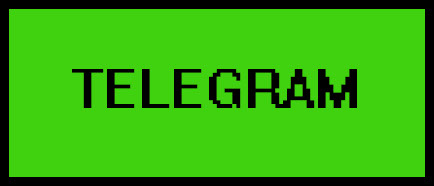
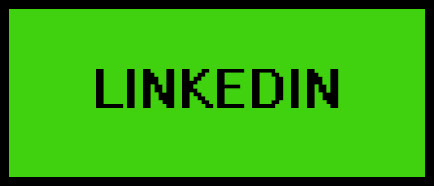
fix

Changed region(s): [[0.1498, 0.3495, 0.8387, 0.5914]]

diff --git a/phone/css/index.css b/phone/css/index.css
@@ -1,1 +1,1 @@
-.version.index{color:#000011;background-color:#D9D0AA;}.js body{visibility:hidden;}.js body.initialized{visibility:visible;}#page{background-image:none;border-color:#000000;margin-right:auto;background-color:transparent;border-width:0px;width:100%;z-index:1;margin-left:auto;}#pup{z-index:71;}#u4928{position:relative;z-index:77;background-color:transparent;}#u4859{height:3px;z-index:2;background-color:#1E0800;}#u4859-bw{left:0px;z-index:2;margin-left:0px;height:3px;}#pu4924{left:0%;z-index:73;}#u4924{margin-right:-10000px;background-color:transparent;z-index:73;position:relative;}#u4861{margin-right:-10000px;background-color:transparent;z-index:7;position:relative;}#pu4926{left:0%;z-index:75;}#u4926{margin-right:-10000px;background-color:transparent;z-index:75;position:relative;}#u4864{margin-right:-10000px;position:relative;z-index:13;background-color:transparent;}#u4863-4{display:block;vertical-align:top;position:relative;z-index:9;}#u4860-4{min-height:21px;position:relative;z-index:3;background-color:transparent;}#pu4923{left:0px;width:0.01px;z-index:72;}#u4923{border-color:transparent;margin-right:-10000px;min-height:100px;background-color:transparent;border-width:0px;width:200px;z-index:72;position:relative;}#u4932{z-index:84;margin-right:-10000px;position:relative;}.up{border-width:0px;border-color:#000000;background-color:transparent;}#u4866{height:10px;z-index:15;background-color:#000000;}#u4866-bw{left:0px;z-index:15;margin-left:0px;height:10px;}#u4869{position:relative;z-index:18;background-color:transparent;}#pu4871{left:0%;z-index:20;}#u4871{background-color:transparent;z-index:20;margin-right:-10000px;position:relative;}#u4873{margin-right:-10000px;background-color:transparent;z-index:22;position:relative;}#u4868{height:10px;z-index:17;background-color:#000000;}#u4868-bw{left:0px;z-index:17;margin-left:0px;height:10px;}#u4877{left:0%;position:relative;z-index:26;background-color:transparent;}#pu4879{z-index:28;margin-right:-10000px;}#u4879{background-color:transparent;width:100%;z-index:28;margin-right:-10000px;position:relative;}#u4881{margin-right:-10000px;background-color:transparent;z-index:30;position:relative;}#u4885{background-color:transparent;z-index:34;margin-right:-10000px;position:relative;}#u4893{margin-right:-10000px;background-color:transparent;z-index:42;position:relative;}#pu4887{z-index:36;margin-right:-10000px;}#u4887{background-color:transparent;width:100%;z-index:36;margin-right:-10000px;position:relative;}#u4897{margin-right:-10000px;background-color:transparent;z-index:46;position:relative;}#u4889{background-color:transparent;z-index:38;margin-right:-10000px;position:relative;}#u4895{margin-right:-10000px;background-color:transparent;z-index:44;position:relative;}#ppu4879,#ppu4887,#ppu4891{left:0%;z-index:0;}#pu4891{z-index:40;margin-right:-10000px;}#u4891{background-color:transparent;width:100%;z-index:40;margin-right:-10000px;position:relative;}#u4899{margin-right:-10000px;background-color:transparent;z-index:48;position:relative;}#u4883{margin-right:-10000px;background-color:transparent;z-index:32;position:relative;}#u4901{margin-right:-10000px;background-color:transparent;z-index:50;position:relative;}#u4875{height:10px;z-index:24;background-color:#000000;}#u4875-bw{left:0px;z-index:24;margin-left:0px;height:10px;}#u4908{left:0%;position:relative;z-index:57;background-color:transparent;}#pu4904{left:0%;z-index:53;}#u4904{background-color:transparent;width:100%;z-index:53;margin-right:-10000px;position:relative;}#u4906{margin-right:-10000px;background-color:transparent;z-index:55;position:relative;}#u4903{height:9px;z-index:52;background-color:#000000;}#u4903-bw{left:0px;z-index:52;margin-left:0px;height:9px;}#projects,#education,#contacts{left:0%;margin-left:0%;position:relative;}#u4910{left:0%;position:relative;z-index:59;background-color:transparent;}#u4914{background-color:transparent;z-index:63;position:relative;}#u4916{background-color:transparent;z-index:65;position:relative;}#u4912{background-color:transparent;z-index:61;position:relative;}#u4918{background-color:transparent;z-index:67;position:relative;}#u4928_img,#u4924_img,#u4861_img,#u4926_img,#u4869_img,#u4871_img,#u4873_img,#u4877_img,#u4879_img,#u4881_img,#u4885_img,#u4893_img,#u4887_img,#u4897_img,#u4889_img,#u4895_img,#u4891_img,#u4899_img,#u4883_img,#u4901_img,#u4908_img,#u4904_img,#u4906_img,#u4910_img,#u4914_img,#u4916_img,#u4912_img,#u4918_img{width:100%;}#u4930{padding-bottom:30px;z-index:79;min-height:54px;background-color:#000000;}#u4930_align_to_page{margin-right:auto;margin-left:auto;position:relative;}#u4931-4{color:#FFFFFF;position:relative;margin-right:-10000px;min-height:28px;font-size:19px;background-color:transparent;margin-top:26px;z-index:80;line-height:23px;}#u4930-bw{margin-top:2342px;margin-bottom:-2355px;z-index:79;min-height:54px;}.html{background-color:#FFFFFF;}#up,#skills,body{position:relative;}@media (min-width: 429px), print{#muse_css_mq{background-color:#FFFFFF;}#bp_infinity.active{display:block;}#page{min-height:5776px;max-width:500px;}#pup{margin-right:-10000px;width:100%;}#up{left:0%;margin-left:0%;}#u4928{margin-top:1px;width:31.8%;left:0%;margin-left:23.6%;}#u4859-bw{margin-top:2px;}#pu4924{margin-top:12px;width:93.61%;margin-left:1.41%;}#u4924{margin-top:6px;width:21.59%;}#u4861{width:21.59%;left:78.42%;}#pu4926{margin-top:7px;width:93.8%;margin-left:1.21%;}#u4926{margin-top:8px;width:21.75%;}#u4864{width:104px;left:77.62%;}#u4863-4{margin-top:12px;margin-left:50%;left:-214px;}#u4860-4{width:218px;margin-top:35px;margin-left:50%;left:-229px;}#pu4923{margin-top:193px;margin-left:20px;}#u4932{width:62px;margin-top:22px;}#u4866-bw{margin-top:58px;}#skills{margin-top:10px;left:0%;margin-left:0.6%;}#u4869{margin-top:47px;width:19%;left:0%;margin-left:26.21%;}#pu4871{margin-top:18px;width:66.2%;margin-left:0.6%;}#u4871{width:60.13%;}#u4873{margin-top:167px;width:64.96%;left:34.75%;}#u4868-bw{margin-top:946px;}#u4877{margin-top:24px;width:19.2%;margin-left:26%;}#ppu4879{margin-top:42px;width:69%;margin-left:1%;}#pu4879{width:46.38%;margin-left:53.63%;}#u4881{margin-top:104px;width:38.75%;left:35%;}#u4893{margin-top:104px;width:17.98%;left:13.05%;}#ppu4887{margin-top:119px;width:69%;margin-left:1%;}#pu4887{width:46.67%;margin-left:53.63%;}#u4897{margin-top:100px;width:38.51%;left:30.44%;}#u4885,#u4889{width:46.38%;}#u4895{margin-top:100px;width:17.98%;left:13.34%;}#ppu4891{margin-top:132px;width:69.4%;margin-left:1%;}#pu4891{width:46.69%;margin-left:53.32%;}#u4899{margin-top:108px;width:38.28%;left:34.57%;}#u4883{margin-top:4px;width:46.11%;}#u4901{margin-top:108px;width:17.87%;left:13.26%;}#u4875-bw{margin-top:420px;}#u4908{margin-top:84px;width:19.2%;margin-left:26%;}#pu4904{margin-top:139px;width:67.81%;margin-left:2.21%;}#u4906{margin-top:47px;width:12.39%;left:81.42%;}#u4903-bw{margin-top:798px;}#u4910{margin-top:41px;width:19.2%;margin-left:26%;}#pu4914{z-index:63;margin-top:38px;width:58.2%;left:0%;margin-left:6.61%;}#u4916{margin-right:-10000px;margin-top:1px;width:33.68%;left:66.67%;}#pu4912{z-index:61;margin-top:112px;width:58.2%;left:0%;margin-left:6.61%;}#u4914,#u4912{margin-right:-10000px;width:33.68%;}#u4918{margin-right:-10000px;width:33.68%;left:66.67%;}.css_verticalspacer .verticalspacer{height:calc(100vh - 4929px);}#u4930_align_to_page{max-width:500px;}#u4931-4{width:10.2%;left:27.21%;}.verticalspacer{min-height:846px;}}@media (max-width: 428px){#muse_css_mq{background-color:#0001ac;}#bp_428.active{display:block;}#page{min-height:5526px;max-width:428px;}#ppup{z-index:0;padding-bottom:0px;margin-right:-10000px;width:100%;}#pup{width:65.66%;left:0%;margin-left:0%;}#u4928{margin-right:-10000px;margin-top:9px;width:48.4%;left:51.61%;}#u4859-bw{margin-top:13px;}#pu4924{margin-top:22px;width:94.63%;margin-left:1.87%;}#u4924{width:36.55%;}#u4861{width:36.55%;left:63.46%;}#pu4926{margin-top:18px;width:94.63%;margin-left:1.87%;}#u4926{width:37.29%;}#u4864{margin-top:1px;width:36.55%;left:63.46%;}#u4864_img{width:100%;}#u4863-4{margin-top:23px;width:75.94%;left:0%;margin-left:15.19%;}#u4860-4{margin-top:7px;width:54.68%;left:0%;margin-left:24.54%;}#pu4923{margin-top:238px;margin-left:8px;}#u4932{width:35px;left:12px;}#u4866-bw{margin-top:9px;}#pskills{z-index:16;margin-top:9px;width:65.66%;left:0%;margin-left:0%;}#up,#skills{margin-right:-10000px;width:22px;}#u4869{margin-right:-10000px;margin-top:9px;width:48.4%;left:51.96%;}#pu4871{margin-top:55px;width:97.43%;margin-left:0.71%;}#u4871{width:66.91%;}#u4873{margin-top:96px;width:62.12%;left:37.65%;}#u4868-bw{margin-top:930px;}#u4877{margin-top:19px;width:24.77%;margin-left:37.62%;}#ppu4879{margin-top:37px;width:96.97%;margin-left:1.17%;}#u4881{margin-top:117px;width:37.7%;left:28.8%;}#u4885{margin-top:1px;width:45.79%;}#u4893{margin-top:117px;width:17.6%;left:13.5%;}#u4897{margin-top:119px;width:38.75%;left:31.94%;}#u4889{width:46.03%;}#u4895{margin-top:119px;width:19.76%;left:13.5%;}#ppu4887,#ppu4891{margin-top:7px;width:96.97%;margin-left:1.17%;}#pu4879,#pu4887,#pu4891{width:46.03%;margin-left:53.98%;}#u4899{margin-top:116px;width:41.89%;left:28.8%;}#u4883{width:45.55%;}#u4901{margin-top:116px;width:19.04%;left:13.26%;}#u4875-bw{margin-top:545px;}#u4908{margin-top:19px;width:34.58%;margin-left:32.72%;}#pu4904{margin-top:110px;width:95.57%;margin-left:2.34%;}#u4906{margin-top:56px;width:8.81%;left:85.82%;}#u4903-bw{margin-top:854px;}#u4910{margin-top:25px;width:29.91%;margin-left:35.05%;}#u4914{margin-top:18px;width:50%;left:0%;margin-left:25%;}#u4916,#u4912{margin-top:2px;width:50%;left:0%;margin-left:25%;}#u4918{margin-top:1px;width:50%;left:0%;margin-left:25%;}.css_verticalspacer .verticalspacer{height:calc(100vh - 4968px);}#u4930_align_to_page{max-width:428px;}#u4931-4{width:10.29%;left:27.34%;}body{overflow-x:hidden;min-width:321px;}.verticalspacer{min-height:558px;}}
+.version.index{color:#000012;background-color:#835AD7;}.js body{visibility:hidden;}.js body.initialized{visibility:visible;}#page{border-color:#000000;margin-left:auto;margin-right:auto;border-width:0px;width:100%;z-index:1;background:transparent url("../../images/ee5eeef76f90f10325a12d1597e49aba.jpg?crc=3900983565") no-repeat left top;background-size:cover;}#pup{z-index:71;}#u4928{position:relative;z-index:77;background-color:transparent;}#u4859{height:3px;z-index:2;background-color:#1E0800;}#u4859-bw{left:0px;z-index:2;margin-left:0px;height:3px;}#pu4924{left:0%;z-index:73;}#u4924{margin-right:-10000px;background-color:transparent;z-index:73;position:relative;}#u4861{margin-right:-10000px;background-color:transparent;z-index:7;position:relative;}#pu4926{left:0%;z-index:75;}#u4926{margin-right:-10000px;background-color:transparent;z-index:75;position:relative;}#u4864{margin-right:-10000px;position:relative;z-index:13;background-color:transparent;}#u4863-4{display:block;vertical-align:top;position:relative;z-index:9;}#u4860-4{min-height:21px;position:relative;z-index:3;background-color:transparent;}#pu4923{left:0px;width:0.01px;z-index:72;}#u4923{border-color:transparent;margin-right:-10000px;min-height:100px;background-color:transparent;border-width:0px;width:200px;z-index:72;position:relative;}#u4932{z-index:84;margin-right:-10000px;position:relative;}.up{border-width:0px;border-color:#000000;background-color:transparent;}#u4866{height:10px;z-index:15;background-color:#000000;}#u4866-bw{left:0px;z-index:15;margin-left:0px;height:10px;}#u4869{position:relative;z-index:18;background-color:transparent;}#pu4871{left:0%;z-index:20;}#u4871{background-color:transparent;z-index:20;margin-right:-10000px;position:relative;}#u4873{margin-right:-10000px;background-color:transparent;z-index:22;position:relative;}#u4868{height:10px;z-index:17;background-color:#000000;}#u4868-bw{left:0px;z-index:17;margin-left:0px;height:10px;}#u4877{left:0%;position:relative;z-index:26;background-color:transparent;}#pu4879{z-index:28;margin-right:-10000px;}#u4879{background-color:transparent;width:100%;z-index:28;margin-right:-10000px;position:relative;}#u4881{margin-right:-10000px;background-color:transparent;z-index:30;position:relative;}#u4885{background-color:transparent;z-index:34;margin-right:-10000px;position:relative;}#u4893{margin-right:-10000px;background-color:transparent;z-index:42;position:relative;}#pu4887{z-index:36;margin-right:-10000px;}#u4887{background-color:transparent;width:100%;z-index:36;margin-right:-10000px;position:relative;}#u4897{margin-right:-10000px;background-color:transparent;z-index:46;position:relative;}#u4889{background-color:transparent;z-index:38;margin-right:-10000px;position:relative;}#u4895{margin-right:-10000px;background-color:transparent;z-index:44;position:relative;}#ppu4879,#ppu4887,#ppu4891{left:0%;z-index:0;}#pu4891{z-index:40;margin-right:-10000px;}#u4891{background-color:transparent;width:100%;z-index:40;margin-right:-10000px;position:relative;}#u4899{margin-right:-10000px;background-color:transparent;z-index:48;position:relative;}#u4883{margin-right:-10000px;background-color:transparent;z-index:32;position:relative;}#u4901{margin-right:-10000px;background-color:transparent;z-index:50;position:relative;}#u4875{height:10px;z-index:24;background-color:#000000;}#u4875-bw{left:0px;z-index:24;margin-left:0px;height:10px;}#u4908{left:0%;position:relative;z-index:57;background-color:transparent;}#pu4904{left:0%;z-index:53;}#u4904{background-color:transparent;width:100%;z-index:53;margin-right:-10000px;position:relative;}#u4906{margin-right:-10000px;background-color:transparent;z-index:55;position:relative;}#u4903{height:9px;z-index:52;background-color:#000000;}#u4903-bw{left:0px;z-index:52;margin-left:0px;height:9px;}#projects,#education,#contacts{left:0%;margin-left:0%;position:relative;}#u4910{left:0%;position:relative;z-index:59;background-color:transparent;}#u4914{background-color:transparent;z-index:63;position:relative;}#u4916{background-color:transparent;z-index:65;position:relative;}#u4912{background-color:transparent;z-index:61;position:relative;}#u4918{background-color:transparent;z-index:67;position:relative;}#u4928_img,#u4924_img,#u4861_img,#u4926_img,#u4869_img,#u4871_img,#u4873_img,#u4877_img,#u4879_img,#u4881_img,#u4885_img,#u4893_img,#u4887_img,#u4897_img,#u4889_img,#u4895_img,#u4891_img,#u4899_img,#u4883_img,#u4901_img,#u4908_img,#u4904_img,#u4906_img,#u4910_img,#u4914_img,#u4916_img,#u4912_img,#u4918_img{width:100%;}#u4930{padding-bottom:30px;z-index:79;min-height:54px;background-color:#000000;}#u4930_align_to_page{margin-right:auto;margin-left:auto;position:relative;}#u4931-4{color:#FFFFFF;position:relative;margin-right:-10000px;min-height:28px;font-size:19px;background-color:transparent;margin-top:26px;z-index:80;line-height:23px;}#u4930-bw{margin-top:2342px;margin-bottom:-2355px;z-index:79;min-height:54px;}.html{background-color:#FFFFFF;}#up,#skills,body{position:relative;}@media (min-width: 429px), print{#muse_css_mq{background-color:#FFFFFF;}#bp_infinity.active{display:block;}#page{min-height:5776px;max-width:500px;}#pup{margin-right:-10000px;width:100%;}#up{left:0%;margin-left:0%;}#u4928{margin-top:1px;width:31.8%;left:0%;margin-left:23.6%;}#u4859-bw{margin-top:2px;}#pu4924{margin-top:12px;width:93.61%;margin-left:1.41%;}#u4924{margin-top:6px;width:21.59%;}#u4861{width:21.59%;left:78.42%;}#pu4926{margin-top:7px;width:93.8%;margin-left:1.21%;}#u4926{margin-top:8px;width:21.75%;}#u4864{width:104px;left:77.62%;}#u4863-4{margin-top:12px;margin-left:50%;left:-214px;}#u4860-4{width:218px;margin-top:35px;margin-left:50%;left:-229px;}#pu4923{margin-top:193px;margin-left:20px;}#u4932{width:62px;margin-top:22px;}#u4866-bw{margin-top:58px;}#skills{margin-top:10px;left:0%;margin-left:0.6%;}#u4869{margin-top:47px;width:19%;left:0%;margin-left:26.21%;}#pu4871{margin-top:18px;width:66.2%;margin-left:0.6%;}#u4871{width:60.13%;}#u4873{margin-top:167px;width:64.96%;left:34.75%;}#u4868-bw{margin-top:946px;}#u4877{margin-top:24px;width:19.2%;margin-left:26%;}#ppu4879{margin-top:42px;width:69%;margin-left:1%;}#pu4879{width:46.38%;margin-left:53.63%;}#u4881{margin-top:104px;width:38.75%;left:35%;}#u4893{margin-top:104px;width:17.98%;left:13.05%;}#ppu4887{margin-top:119px;width:69%;margin-left:1%;}#pu4887{width:46.67%;margin-left:53.63%;}#u4897{margin-top:100px;width:38.51%;left:30.44%;}#u4885,#u4889{width:46.38%;}#u4895{margin-top:100px;width:17.98%;left:13.34%;}#ppu4891{margin-top:132px;width:69.4%;margin-left:1%;}#pu4891{width:46.69%;margin-left:53.32%;}#u4899{margin-top:108px;width:38.28%;left:34.57%;}#u4883{margin-top:4px;width:46.11%;}#u4901{margin-top:108px;width:17.87%;left:13.26%;}#u4875-bw{margin-top:420px;}#u4908{margin-top:84px;width:19.2%;margin-left:26%;}#pu4904{margin-top:139px;width:67.81%;margin-left:2.21%;}#u4906{margin-top:47px;width:12.39%;left:81.42%;}#u4903-bw{margin-top:798px;}#u4910{margin-top:41px;width:19.2%;margin-left:26%;}#pu4914{z-index:63;margin-top:38px;width:58.2%;left:0%;margin-left:6.61%;}#u4916{margin-right:-10000px;margin-top:1px;width:33.68%;left:66.67%;}#pu4912{z-index:61;margin-top:112px;width:58.2%;left:0%;margin-left:6.61%;}#u4914,#u4912{margin-right:-10000px;width:33.68%;}#u4918{margin-right:-10000px;width:33.68%;left:66.67%;}.css_verticalspacer .verticalspacer{height:calc(100vh - 4929px);}#u4930_align_to_page{max-width:500px;}#u4931-4{width:10.2%;left:27.21%;}.verticalspacer{min-height:846px;}}@media (max-width: 428px){#muse_css_mq{background-color:#0001ac;}#bp_428.active{display:block;}#page{min-height:5526px;max-width:428px;}#ppup{z-index:0;padding-bottom:0px;margin-right:-10000px;width:100%;}#pup{width:65.66%;left:0%;margin-left:0%;}#u4928{margin-right:-10000px;margin-top:9px;width:48.4%;left:51.61%;}#u4859-bw{margin-top:13px;}#pu4924{margin-top:22px;width:94.63%;margin-left:1.87%;}#u4924{width:36.55%;}#u4861{width:36.55%;left:63.46%;}#pu4926{margin-top:18px;width:94.63%;margin-left:1.87%;}#u4926{width:37.29%;}#u4864{margin-top:1px;width:36.55%;left:63.46%;}#u4864_img{width:100%;}#u4863-4{margin-top:23px;width:75.94%;left:0%;margin-left:15.19%;}#u4860-4{margin-top:7px;width:54.68%;left:0%;margin-left:24.54%;}#pu4923{margin-top:238px;margin-left:8px;}#u4932{width:35px;left:12px;}#u4866-bw{margin-top:9px;}#pskills{z-index:16;margin-top:9px;width:65.66%;left:0%;margin-left:0%;}#up,#skills{margin-right:-10000px;width:22px;}#u4869{margin-right:-10000px;margin-top:9px;width:48.4%;left:51.96%;}#pu4871{margin-top:55px;width:97.43%;margin-left:0.71%;}#u4871{width:66.91%;}#u4873{margin-top:96px;width:62.12%;left:37.65%;}#u4868-bw{margin-top:930px;}#u4877{margin-top:19px;width:24.77%;margin-left:37.62%;}#ppu4879{margin-top:37px;width:96.97%;margin-left:1.17%;}#u4881{margin-top:117px;width:37.7%;left:28.8%;}#u4885{margin-top:1px;width:45.79%;}#u4893{margin-top:117px;width:17.6%;left:13.5%;}#u4897{margin-top:119px;width:38.75%;left:31.94%;}#u4889{width:46.03%;}#u4895{margin-top:119px;width:19.76%;left:13.5%;}#ppu4887,#ppu4891{margin-top:7px;width:96.97%;margin-left:1.17%;}#pu4879,#pu4887,#pu4891{width:46.03%;margin-left:53.98%;}#u4899{margin-top:116px;width:41.89%;left:28.8%;}#u4883{width:45.55%;}#u4901{margin-top:116px;width:19.04%;left:13.26%;}#u4875-bw{margin-top:545px;}#u4908{margin-top:19px;width:34.58%;margin-left:32.72%;}#pu4904{margin-top:110px;width:95.57%;margin-left:2.34%;}#u4906{margin-top:56px;width:8.81%;left:85.82%;}#u4903-bw{margin-top:854px;}#u4910{margin-top:25px;width:29.91%;margin-left:35.05%;}#u4914{margin-top:18px;width:50%;left:0%;margin-left:25%;}#u4916,#u4912{margin-top:2px;width:50%;left:0%;margin-left:25%;}#u4918{margin-top:1px;width:50%;left:0%;margin-left:25%;}.css_verticalspacer .verticalspacer{height:calc(100vh - 4968px);}#u4930_align_to_page{max-width:428px;}#u4931-4{width:10.29%;left:27.34%;}body{overflow-x:hidden;min-width:321px;}.verticalspacer{min-height:558px;}}

diff --git a/index.html b/index.html
@@ -50,17 +50,17 @@ if(typeof Muse == "undefined") window.Muse = {}; window.Muse.assets = {"required
     <div class="clearfix colelem" id="pu471"><!-- group -->
      <div class="grpelem" id="u471" data-sizePolicy="fixed" data-pintopage="page_fluidx"><!-- simple frame --></div>
      <!-- m_editable region-id="editable-static-tag-U371-BP_infinity" template="index.html" data-type="image" data-ice-options="clickable" data-ice-editable="link" -->
-     <a class="nonblock nontext anim_swing clip_frame grpelem" id="u371" href="index.html#skills" data-href="anchor:U82:U483" data-muse-uid="U371" data-muse-type="img_frame"><!-- image --><img class="block" id="u371_img" src="images/%d0%b2%d1%81%d1%82%d0%b0%d0%b2%d0%bb%d0%b5%d0%bd%d0%bd%d0%be%d0%b5%20%d0%b8%d0%b7%d0%be%d0%b1%d1%80%d0%b0%d0%b6%d0%b5%d0%bd%d0%b8%d0%b5%20670x227.jpg?crc=480356320" alt="" data-muse-src="images/%d0%b2%d1%81%d1%82%d0%b0%d0%b2%d0%bb%d0%b5%d0%bd%d0%bd%d0%be%d0%b5%20%d0%b8%d0%b7%d0%be%d0%b1%d1%80%d0%b0%d0%b6%d0%b5%d0%bd%d0%b8%d0%b5%20670x227.jpg?crc=480356320" data-heightwidthratio="0.3382352941176471" data-image-width="136" data-image-height="46"/></a>
+     <a class="nonblock nontext anim_swing clip_frame grpelem" id="u371" href="index.html#skills" data-href="anchor:U82:U483" data-muse-uid="U371" data-muse-type="img_frame"><!-- image --><img class="block" id="u371_img" src="images/%d0%b2%d1%81%d1%82%d0%b0%d0%b2%d0%bb%d0%b5%d0%bd%d0%bd%d0%be%d0%b5%20%d0%b8%d0%b7%d0%be%d0%b1%d1%80%d0%b0%d0%b6%d0%b5%d0%bd%d0%b8%d0%b5%20670x2272.jpg?crc=480356320" alt="" data-muse-src="images/%d0%b2%d1%81%d1%82%d0%b0%d0%b2%d0%bb%d0%b5%d0%bd%d0%bd%d0%be%d0%b5%20%d0%b8%d0%b7%d0%be%d0%b1%d1%80%d0%b0%d0%b6%d0%b5%d0%bd%d0%b8%d0%b5%20670x2272.jpg?crc=480356320" data-heightwidthratio="0.3382352941176471" data-image-width="136" data-image-height="46"/></a>
      <!-- /m_editable -->
      <!-- m_editable region-id="editable-static-tag-U434-BP_infinity" template="index.html" data-type="image" data-ice-options="clickable" data-ice-editable="link" -->
-     <a class="nonblock nontext anim_swing clip_frame grpelem" id="u434" href="index.html#contacts" data-href="anchor:U82:U850" data-muse-uid="U434" data-muse-type="img_frame"><!-- image --><img class="block" id="u434_img" src="images/%d0%b2%d1%81%d1%82%d0%b0%d0%b2%d0%bb%d0%b5%d0%bd%d0%bd%d0%be%d0%b5%20%d0%b8%d0%b7%d0%be%d0%b1%d1%80%d0%b0%d0%b6%d0%b5%d0%bd%d0%b8%d0%b5%20670x2272.jpg?crc=3857605817" alt="" data-muse-src="images/%d0%b2%d1%81%d1%82%d0%b0%d0%b2%d0%bb%d0%b5%d0%bd%d0%bd%d0%be%d0%b5%20%d0%b8%d0%b7%d0%be%d0%b1%d1%80%d0%b0%d0%b6%d0%b5%d0%bd%d0%b8%d0%b5%20670x2272.jpg?crc=3857605817" data-heightwidthratio="0.34074074074074073" data-image-width="135" data-image-height="46"/></a>
+     <a class="nonblock nontext anim_swing clip_frame grpelem" id="u434" href="index.html#contacts" data-href="anchor:U82:U850" data-muse-uid="U434" data-muse-type="img_frame"><!-- image --><img class="block" id="u434_img" src="images/%d0%b2%d1%81%d1%82%d0%b0%d0%b2%d0%bb%d0%b5%d0%bd%d0%bd%d0%be%d0%b5%20%d0%b8%d0%b7%d0%be%d0%b1%d1%80%d0%b0%d0%b6%d0%b5%d0%bd%d0%b8%d0%b5%20670x2274.jpg?crc=3857605817" alt="" data-muse-src="images/%d0%b2%d1%81%d1%82%d0%b0%d0%b2%d0%bb%d0%b5%d0%bd%d0%bd%d0%be%d0%b5%20%d0%b8%d0%b7%d0%be%d0%b1%d1%80%d0%b0%d0%b6%d0%b5%d0%bd%d0%b8%d0%b5%20670x2274.jpg?crc=3857605817" data-heightwidthratio="0.34074074074074073" data-image-width="135" data-image-height="46"/></a>
      <!-- /m_editable -->
      <a class="anchor_item grpelem" id="up" data-sizePolicy="fixed" data-pintopage="page_fluidx"></a>
      <!-- m_editable region-id="editable-static-tag-U385-BP_infinity" template="index.html" data-type="image" data-ice-options="clickable" data-ice-editable="link" -->
-     <a class="nonblock nontext anim_swing clip_frame grpelem" id="u385" href="index.html#projects" data-href="anchor:U82:U555" data-muse-uid="U385" data-muse-type="img_frame"><!-- image --><img class="block" id="u385_img" src="images/%d0%b2%d1%81%d1%82%d0%b0%d0%b2%d0%bb%d0%b5%d0%bd%d0%bd%d0%be%d0%b5%20%d0%b8%d0%b7%d0%be%d0%b1%d1%80%d0%b0%d0%b6%d0%b5%d0%bd%d0%b8%d0%b5%20670x2273.jpg?crc=4192162273" alt="" data-muse-src="images/%d0%b2%d1%81%d1%82%d0%b0%d0%b2%d0%bb%d0%b5%d0%bd%d0%bd%d0%be%d0%b5%20%d0%b8%d0%b7%d0%be%d0%b1%d1%80%d0%b0%d0%b6%d0%b5%d0%bd%d0%b8%d0%b5%20670x2273.jpg?crc=4192162273" data-heightwidthratio="0.3382352941176471" data-image-width="136" data-image-height="46"/></a>
+     <a class="nonblock nontext anim_swing clip_frame grpelem" id="u385" href="index.html#projects" data-href="anchor:U82:U555" data-muse-uid="U385" data-muse-type="img_frame"><!-- image --><img class="block" id="u385_img" src="images/%d0%b2%d1%81%d1%82%d0%b0%d0%b2%d0%bb%d0%b5%d0%bd%d0%bd%d0%be%d0%b5%20%d0%b8%d0%b7%d0%be%d0%b1%d1%80%d0%b0%d0%b6%d0%b5%d0%bd%d0%b8%d0%b5%20670x227.jpg?crc=4192162273" alt="" data-muse-src="images/%d0%b2%d1%81%d1%82%d0%b0%d0%b2%d0%bb%d0%b5%d0%bd%d0%bd%d0%be%d0%b5%20%d0%b8%d0%b7%d0%be%d0%b1%d1%80%d0%b0%d0%b6%d0%b5%d0%bd%d0%b8%d0%b5%20670x227.jpg?crc=4192162273" data-heightwidthratio="0.3382352941176471" data-image-width="136" data-image-height="46"/></a>
      <!-- /m_editable -->
      <!-- m_editable region-id="editable-static-tag-U420-BP_infinity" template="index.html" data-type="image" data-ice-options="clickable" data-ice-editable="link" -->
-     <a class="nonblock nontext anim_swing clip_frame grpelem" id="u420" href="index.html#education" data-href="anchor:U82:U853" data-muse-uid="U420" data-muse-type="img_frame"><!-- image --><img class="block" id="u420_img" src="images/%d0%b2%d1%81%d1%82%d0%b0%d0%b2%d0%bb%d0%b5%d0%bd%d0%bd%d0%be%d0%b5%20%d0%b8%d0%b7%d0%be%d0%b1%d1%80%d0%b0%d0%b6%d0%b5%d0%bd%d0%b8%d0%b5%20670x2274.jpg?crc=4148027940" alt="" data-muse-src="images/%d0%b2%d1%81%d1%82%d0%b0%d0%b2%d0%bb%d0%b5%d0%bd%d0%bd%d0%be%d0%b5%20%d0%b8%d0%b7%d0%be%d0%b1%d1%80%d0%b0%d0%b6%d0%b5%d0%bd%d0%b8%d0%b5%20670x2274.jpg?crc=4148027940" data-heightwidthratio="0.34057971014492755" data-image-width="138" data-image-height="47"/></a>
+     <a class="nonblock nontext anim_swing clip_frame grpelem" id="u420" href="index.html#education" data-href="anchor:U82:U853" data-muse-uid="U420" data-muse-type="img_frame"><!-- image --><img class="block" id="u420_img" src="images/%d0%b2%d1%81%d1%82%d0%b0%d0%b2%d0%bb%d0%b5%d0%bd%d0%bd%d0%be%d0%b5%20%d0%b8%d0%b7%d0%be%d0%b1%d1%80%d0%b0%d0%b6%d0%b5%d0%bd%d0%b8%d0%b5%20670x2273.jpg?crc=4148027940" alt="" data-muse-src="images/%d0%b2%d1%81%d1%82%d0%b0%d0%b2%d0%bb%d0%b5%d0%bd%d0%bd%d0%be%d0%b5%20%d0%b8%d0%b7%d0%be%d0%b1%d1%80%d0%b0%d0%b6%d0%b5%d0%bd%d0%b8%d0%b5%20670x2273.jpg?crc=4148027940" data-heightwidthratio="0.34057971014492755" data-image-width="138" data-image-height="47"/></a>
      <!-- /m_editable -->
      <!-- m_editable region-id="editable-static-tag-U110-BP_infinity" template="index.html" data-type="image" -->
      <div class="clip_frame grpelem" id="u110" data-muse-uid="U110" data-muse-type="img_frame"><!-- image -->
@@ -192,13 +192,13 @@ if(typeof Muse == "undefined") window.Muse = {}; window.Muse.assets = {"required
     <!-- /m_editable -->
     <div class="clearfix colelem" id="pu806"><!-- group -->
      <!-- m_editable region-id="editable-static-tag-U806-BP_infinity" template="index.html" data-type="image" data-ice-options="clickable" data-ice-editable="link" -->
-     <a class="nonblock nontext clip_frame grpelem" id="u806" href="http://t.me/jazisett" data-muse-uid="U806" data-muse-type="img_frame"><!-- image --><img class="block" id="u806_img" src="images/%d0%b2%d1%81%d1%82%d0%b0%d0%b2%d0%bb%d0%b5%d0%bd%d0%bd%d0%be%d0%b5%20%d0%b8%d0%b7%d0%be%d0%b1%d1%80%d0%b0%d0%b6%d0%b5%d0%bd%d0%b8%d0%b5%20434x186.jpg?crc=4121746705" alt="" data-muse-src="images/%d0%b2%d1%81%d1%82%d0%b0%d0%b2%d0%bb%d0%b5%d0%bd%d0%bd%d0%be%d0%b5%20%d0%b8%d0%b7%d0%be%d0%b1%d1%80%d0%b0%d0%b6%d0%b5%d0%bd%d0%b8%d0%b5%20434x186.jpg?crc=4121746705" data-heightwidthratio="0.42731277533039647" data-image-width="227" data-image-height="97"/></a>
+     <a class="nonblock nontext clip_frame grpelem" id="u806" href="http://t.me/jazisett" data-muse-uid="U806" data-muse-type="img_frame"><!-- image --><img class="block" id="u806_img" src="images/%d0%b2%d1%81%d1%82%d0%b0%d0%b2%d0%bb%d0%b5%d0%bd%d0%bd%d0%be%d0%b5%20%d0%b8%d0%b7%d0%be%d0%b1%d1%80%d0%b0%d0%b6%d0%b5%d0%bd%d0%b8%d0%b5%20434x1863.jpg?crc=4121746705" alt="" data-muse-src="images/%d0%b2%d1%81%d1%82%d0%b0%d0%b2%d0%bb%d0%b5%d0%bd%d0%bd%d0%be%d0%b5%20%d0%b8%d0%b7%d0%be%d0%b1%d1%80%d0%b0%d0%b6%d0%b5%d0%bd%d0%b8%d0%b5%20434x1863.jpg?crc=4121746705" data-heightwidthratio="0.42731277533039647" data-image-width="227" data-image-height="97"/></a>
      <!-- /m_editable -->
      <!-- m_editable region-id="editable-static-tag-U823-BP_infinity" template="index.html" data-type="image" data-ice-options="clickable" data-ice-editable="link" -->
-     <a class="nonblock nontext clip_frame grpelem" id="u823" href="https://www.linkedin.com/in/00agulko/" data-muse-uid="U823" data-muse-type="img_frame"><!-- image --><img class="block" id="u823_img" src="images/%d0%b2%d1%81%d1%82%d0%b0%d0%b2%d0%bb%d0%b5%d0%bd%d0%bd%d0%be%d0%b5%20%d0%b8%d0%b7%d0%be%d0%b1%d1%80%d0%b0%d0%b6%d0%b5%d0%bd%d0%b8%d0%b5%20434x1862.jpg?crc=456230819" alt="" data-muse-src="images/%d0%b2%d1%81%d1%82%d0%b0%d0%b2%d0%bb%d0%b5%d0%bd%d0%bd%d0%be%d0%b5%20%d0%b8%d0%b7%d0%be%d0%b1%d1%80%d0%b0%d0%b6%d0%b5%d0%bd%d0%b8%d0%b5%20434x1862.jpg?crc=456230819" data-heightwidthratio="0.42731277533039647" data-image-width="227" data-image-height="97"/></a>
+     <a class="nonblock nontext clip_frame grpelem" id="u823" href="https://www.linkedin.com/in/00agulko/" data-muse-uid="U823" data-muse-type="img_frame"><!-- image --><img class="block" id="u823_img" src="images/%d0%b2%d1%81%d1%82%d0%b0%d0%b2%d0%bb%d0%b5%d0%bd%d0%bd%d0%be%d0%b5%20%d0%b8%d0%b7%d0%be%d0%b1%d1%80%d0%b0%d0%b6%d0%b5%d0%bd%d0%b8%d0%b5%20434x186.jpg?crc=456230819" alt="" data-muse-src="images/%d0%b2%d1%81%d1%82%d0%b0%d0%b2%d0%bb%d0%b5%d0%bd%d0%bd%d0%be%d0%b5%20%d0%b8%d0%b7%d0%be%d0%b1%d1%80%d0%b0%d0%b6%d0%b5%d0%bd%d0%b8%d0%b5%20434x186.jpg?crc=456230819" data-heightwidthratio="0.42731277533039647" data-image-width="227" data-image-height="97"/></a>
      <!-- /m_editable -->
      <!-- m_editable region-id="editable-static-tag-U832-BP_infinity" template="index.html" data-type="image" data-ice-options="clickable" data-ice-editable="link" -->
-     <a class="nonblock nontext clip_frame grpelem" id="u832" href="mailto:agulko546@gmail.com" data-muse-uid="U832" data-muse-type="img_frame"><!-- image --><img class="block" id="u832_img" src="images/%d0%b2%d1%81%d1%82%d0%b0%d0%b2%d0%bb%d0%b5%d0%bd%d0%bd%d0%be%d0%b5%20%d0%b8%d0%b7%d0%be%d0%b1%d1%80%d0%b0%d0%b6%d0%b5%d0%bd%d0%b8%d0%b5%20434x1863.jpg?crc=3982613771" alt="" data-muse-src="images/%d0%b2%d1%81%d1%82%d0%b0%d0%b2%d0%bb%d0%b5%d0%bd%d0%bd%d0%be%d0%b5%20%d0%b8%d0%b7%d0%be%d0%b1%d1%80%d0%b0%d0%b6%d0%b5%d0%bd%d0%b8%d0%b5%20434x1863.jpg?crc=3982613771" data-heightwidthratio="0.42731277533039647" data-image-width="227" data-image-height="97"/></a>
+     <a class="nonblock nontext clip_frame grpelem" id="u832" href="mailto:agulko546@gmail.com" data-muse-uid="U832" data-muse-type="img_frame"><!-- image --><img class="block" id="u832_img" src="images/%d0%b2%d1%81%d1%82%d0%b0%d0%b2%d0%bb%d0%b5%d0%bd%d0%bd%d0%be%d0%b5%20%d0%b8%d0%b7%d0%be%d0%b1%d1%80%d0%b0%d0%b6%d0%b5%d0%bd%d0%b8%d0%b5%20434x1862.jpg?crc=3982613771" alt="" data-muse-src="images/%d0%b2%d1%81%d1%82%d0%b0%d0%b2%d0%bb%d0%b5%d0%bd%d0%bd%d0%be%d0%b5%20%d0%b8%d0%b7%d0%be%d0%b1%d1%80%d0%b0%d0%b6%d0%b5%d0%bd%d0%b8%d0%b5%20434x1862.jpg?crc=3982613771" data-heightwidthratio="0.42731277533039647" data-image-width="227" data-image-height="97"/></a>
      <!-- /m_editable -->
      <!-- m_editable region-id="editable-static-tag-U841-BP_infinity" template="index.html" data-type="image" data-ice-options="clickable" data-ice-editable="link" -->
      <a class="nonblock nontext clip_frame grpelem" id="u841" href="https://github.com/Jazis" data-muse-uid="U841" data-muse-type="img_frame"><!-- image --><img class="block" id="u841_img" src="images/%d0%b2%d1%81%d1%82%d0%b0%d0%b2%d0%bb%d0%b5%d0%bd%d0%bd%d0%be%d0%b5%20%d0%b8%d0%b7%d0%be%d0%b1%d1%80%d0%b0%d0%b6%d0%b5%d0%bd%d0%b8%d0%b5%20434x1864.jpg?crc=3858445301" alt="" data-muse-src="images/%d0%b2%d1%81%d1%82%d0%b0%d0%b2%d0%bb%d0%b5%d0%bd%d0%bd%d0%be%d0%b5%20%d0%b8%d0%b7%d0%be%d0%b1%d1%80%d0%b0%d0%b6%d0%b5%d0%bd%d0%b8%d0%b5%20434x1864.jpg?crc=3858445301" data-heightwidthratio="0.4260869565217391" data-image-width="230" data-image-height="98"/></a>

diff --git a/phone/index.html b/phone/index.html
@@ -11,14 +11,14 @@
 document.documentElement.className = document.documentElement.className.replace(/\bnojs\b/g, 'js');
 
 // Check that all required assets are uploaded and up-to-date
-if(typeof Muse == "undefined") window.Muse = {}; window.Muse.assets = {"required":["museutils.js", "museconfig.js", "jquery.watch.js", "jquery.museresponsive.js", "require.js", "index.css"], "outOfDate":[]};
+if(typeof Muse == "undefined") window.Muse = {}; window.Muse.assets = {"required":["museutils.js", "museconfig.js", "jquery.musepolyfill.bgsize.js", "jquery.watch.js", "jquery.museresponsive.js", "require.js", "index.css"], "outOfDate":[]};
 </script>
   
   <link rel="canonical" href="https://jazis.github.io/main/index.html"/>
   <title>Домашняя</title>
   <!-- CSS -->
   <link rel="stylesheet" type="text/css" href="../css/site_global.css?crc=444006867"/>
-  <link rel="stylesheet" type="text/css" href="css/index.css?crc=299487402" id="pagesheet"/>
+  <link rel="stylesheet" type="text/css" href="css/index.css?crc=310598359" id="pagesheet"/>
   <!-- IE-only CSS -->
   <!--[if lt IE 9]>
   <link rel="stylesheet" type="text/css" href="css/nomq_index.css?crc=4086750544" id="nomq_pagesheet"/>
@@ -45,7 +45,7 @@ if(typeof Muse == "undefined") window.Muse = {}; window.Muse.assets = {"required
  <body>
 
   <div class="breakpoint active" id="bp_infinity" data-min-width="429"><!-- responsive breakpoint node -->
-   <div class="clearfix borderbox" id="page"><!-- group -->
+   <div class="museBGSize clearfix borderbox" id="page"><!-- group -->
     <div class="clearfix grpelem" id="pup"><!-- column -->
      <a class="anchor_item colelem shared_content" id="up" data-sizePolicy="fixed" data-pintopage="page_fluidx" data-content-guid="up_content"></a>
      <!-- m_editable region-id="editable-static-tag-U4928-BP_infinity" template="phone/index.html" data-type="image" -->
@@ -238,7 +238,7 @@ if(typeof Muse == "undefined") window.Muse = {}; window.Muse.assets = {"required
    </div>
   </div>
   <div class="breakpoint" id="bp_428" data-max-width="428"><!-- responsive breakpoint node -->
-   <div class="clearfix borderbox temp_no_id" data-orig-id="page"><!-- group -->
+   <div class="museBGSize clearfix borderbox temp_no_id" data-orig-id="page"><!-- group -->
     <div class="clearfix grpelem" id="ppup"><!-- column -->
      <div class="clearfix colelem temp_no_id" data-orig-id="pup"><!-- group -->
       <span class="anchor_item grpelem placeholder" data-placeholder-for="up_content"><!-- placeholder node --></span>
@@ -417,7 +417,7 @@ var suppressMissingFileError = false
 k[1]:null,k=k&&k[2]?k[2]:null;switch(k.toLowerCase()){case "css":i=i.replace(/\W/gi,"_").replace(/^([^a-z])/gi,"_$1");g.className+=" "+i;i=a(d(g,"color"));k=a(d(g,"backgroundColor"));i!=0||k!=0?(Muse.assets.required.splice(j,1),"undefined"!=typeof b[l]&&(i!=b[l]>>>24||k!=(b[l]&16777215))&&Muse.assets.outOfDate.push(l)):j++;g.className="version";break;case "js":j++;break;default:throw Error("Unsupported file type: "+k);}}c?c().jquery!="1.8.3"&&Muse.assets.outOfDate.push("jquery-1.8.3.min.js"):Muse.assets.required.push("jquery-1.8.3.min.js");
 g.parentNode.removeChild(g);if(Muse.assets.outOfDate.length||Muse.assets.required.length)g="Некоторые файлы на сервере могут отсутствовать или быть некорректными. Очистите кэш-память браузера и повторите попытку. Если проблему не удается устранить, свяжитесь с разработчиками сайта.",f&&Muse.assets.outOfDate.length&&(g+="\nOut of date: "+Muse.assets.outOfDate.join(",")),f&&Muse.assets.required.length&&(g+="\nMissing: "+Muse.assets.required.join(",")),suppressMissingFileError?(g+="\nUse SuppressMissingFileError key in AppPrefs.xml to show missing file error pop up.",console.log(g)):alert(g)};location&&location.search&&location.search.match&&location.search.match(/muse_debug/gi)?
 setTimeout(function(){f(!0)},5E3):f()}};
-var muse_init=function(){require.config({baseUrl:"../"});require(["jquery","museutils","whatinput","jquery.watch","jquery.museresponsive"],function(c){var $ = c;$(document).ready(function(){try{
+var muse_init=function(){require.config({baseUrl:"../"});require(["jquery","museutils","whatinput","jquery.musepolyfill.bgsize","jquery.watch","jquery.museresponsive"],function(c){var $ = c;$(document).ready(function(){try{
 window.Muse.assets.check($);/* body */
 Muse.Utils.transformMarkupToFixBrowserProblemsPreInit();/* body */
 Muse.Utils.prepHyperlinks(true);/* body */
